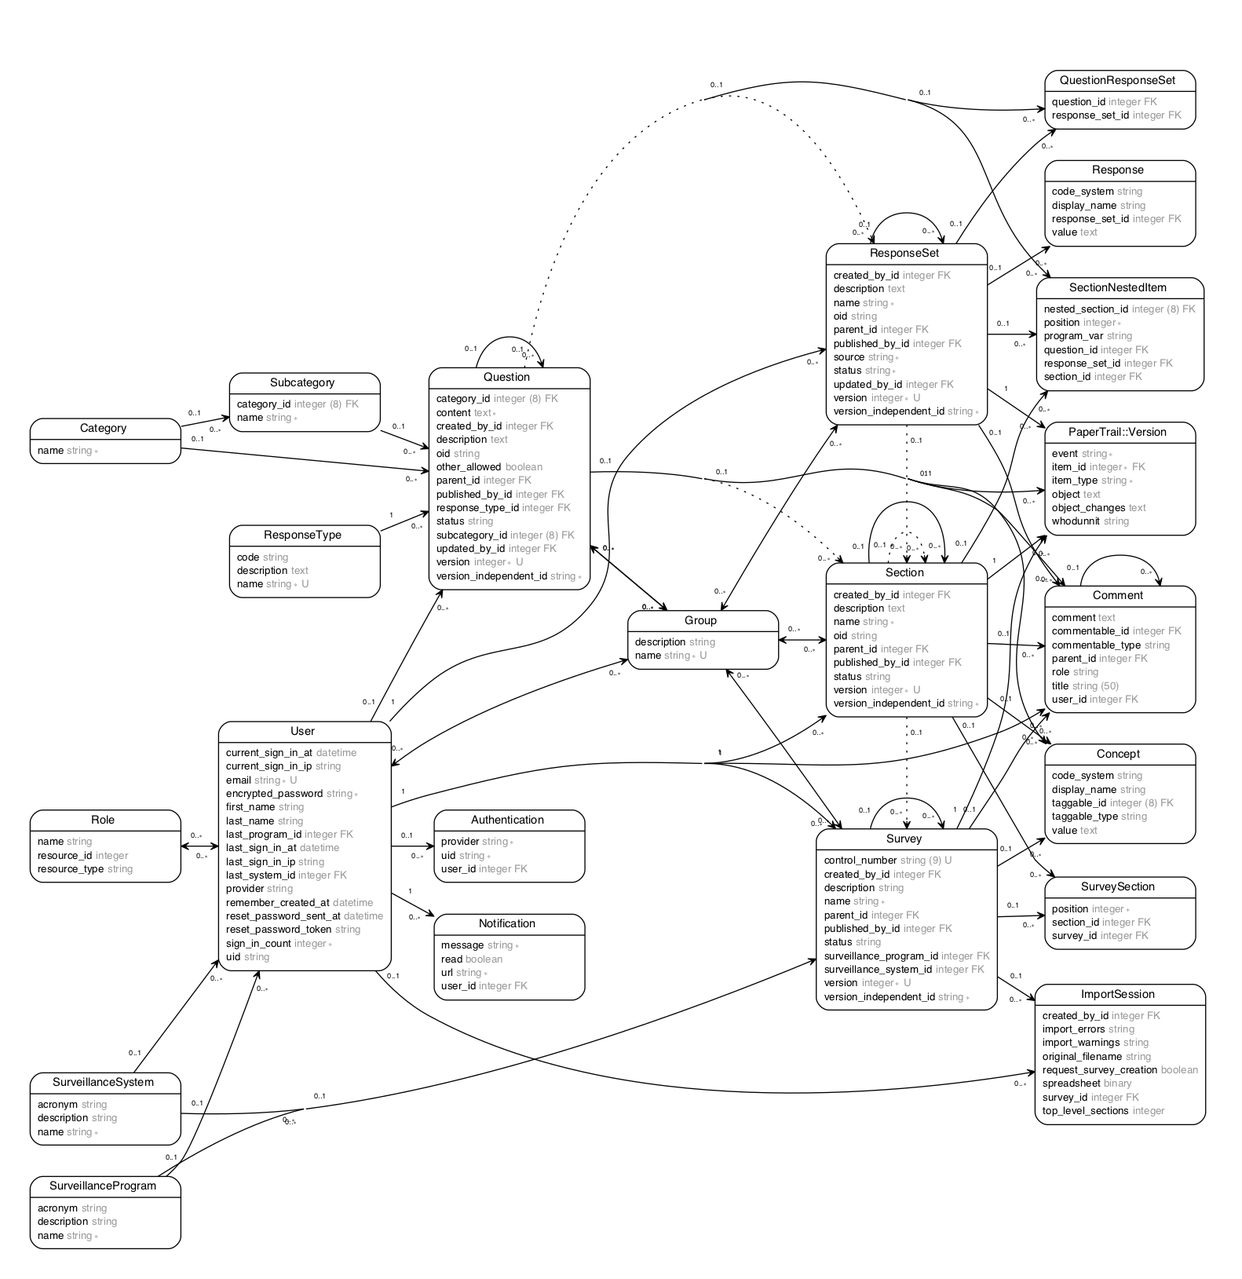
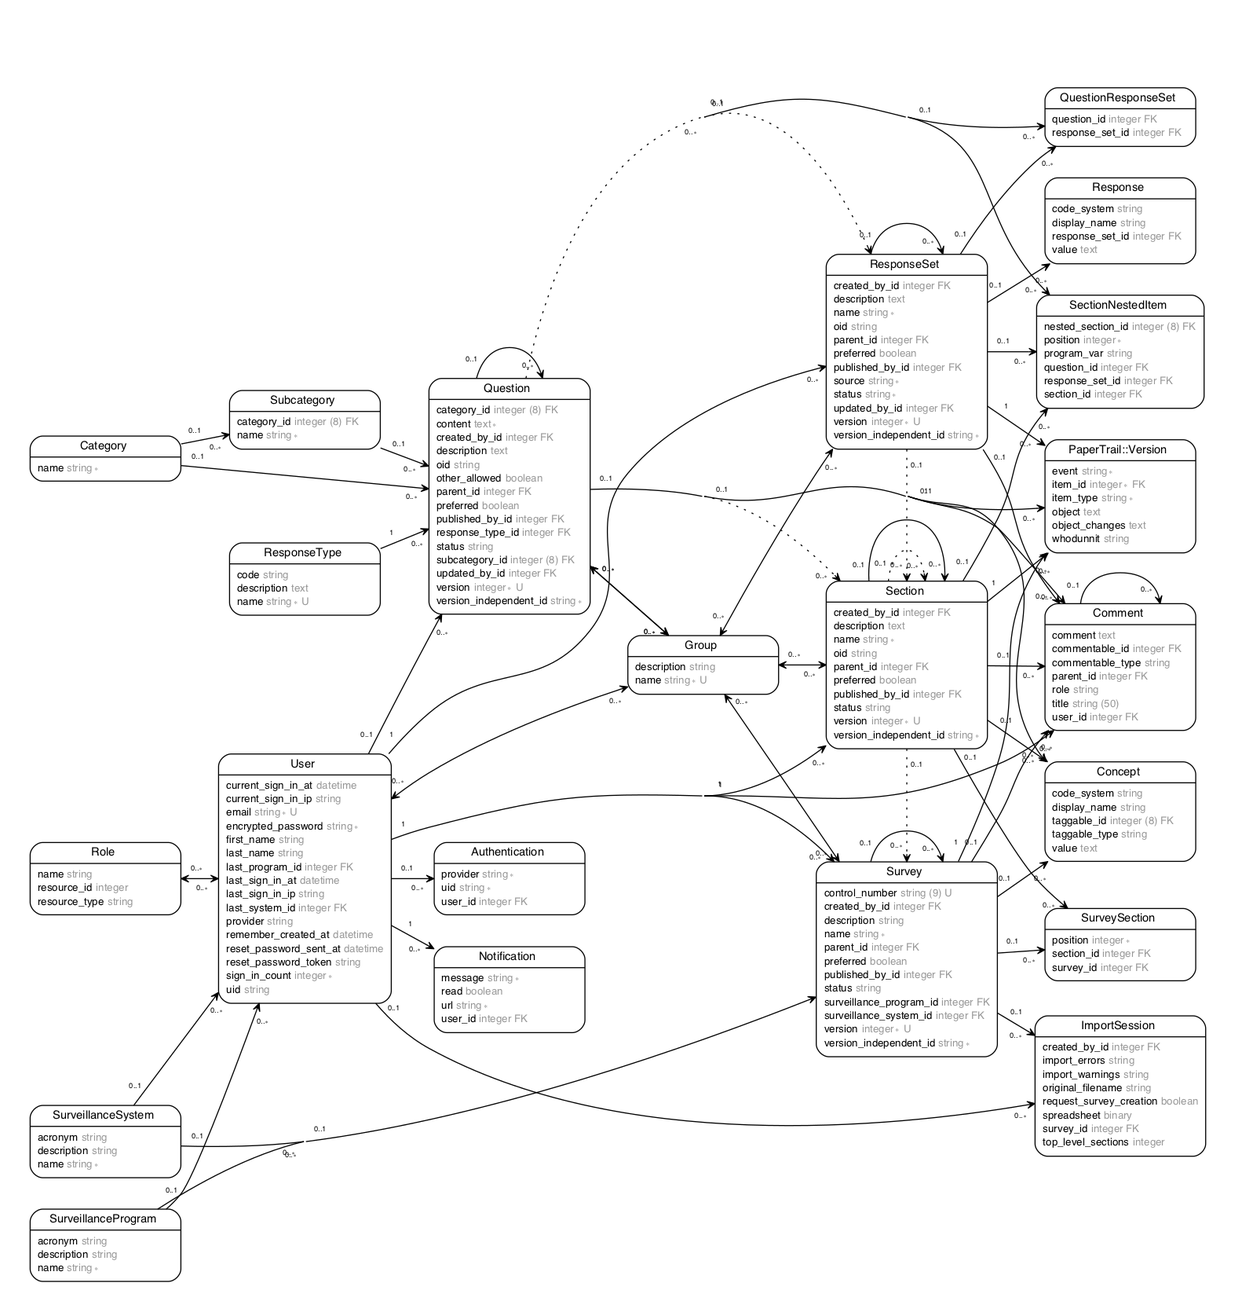
CDC preferred objects, just missing the elasticsearch side

diff --git a/webpack/components/surveys/SurveyShow.js b/webpack/components/surveys/SurveyShow.js
@@ -107,11 +107,29 @@ class SurveyShow extends Component {
             <GroupLookUp item={this.props.survey} addFunc={this.props.addSurveyToGroup} removeFunc={this.props.removeSurveyFromGroup} currentUser={this.props.currentUser} />
           }
           {isPublishable(this.props.survey, this.props.currentUser) &&
-              <a className="btn btn-default" href="#" onClick={(e) => {
-                e.preventDefault();
-                this.props.publishSurvey(this.props.survey.id);
-                return false;
-              }}>Publish</a>
+            <a className="btn btn-default" href="#" onClick={(e) => {
+              e.preventDefault();
+              this.props.publishSurvey(this.props.survey.id);
+              return false;
+            }}>Publish</a>
+          }
+          {this.props.currentUser && this.props.currentUser.admin && !this.props.survey.preferred &&
+            <a className="btn btn-default" href="#" onClick={(e) => {
+              e.preventDefault();
+              this.props.addPreferred(this.props.survey.id, 'Survey', () => {
+                this.props.fetchSurvey(this.props.survey.id);
+              });
+              return false;
+            }}><i className="fa fa-square"></i> CDC Pref<text className="sr-only">Click to add CDC preferred attribute to this content</text></a>
+          }
+          {this.props.currentUser && this.props.currentUser.admin && this.props.survey.preferred &&
+            <a className="btn btn-default" href="#" onClick={(e) => {
+              e.preventDefault();
+              this.props.removePreferred(this.props.survey.id, 'Survey', () => {
+                this.props.fetchSurvey(this.props.survey.id);
+              });
+              return false;
+            }}><i className="fa fa-check-square"></i> CDC Pref<text className="sr-only">Click to remove CDC preferred attribute from this content</text></a>
           }
           {isRevisable(this.props.survey, this.props.currentUser) &&
               <Link className="btn btn-default" to={`surveys/${this.props.survey.id}/revise`}>Revise</Link>
@@ -134,7 +152,7 @@ class SurveyShow extends Component {
           }
         </div>
         <div className="maincontent-details">
-          <h1 className="maincontent-item-name"><strong>Survey Name:</strong> {this.props.survey.name} </h1>
+          <h1 className={`maincontent-item-name ${this.props.survey.preferred ? 'cdc-preferred-note' : ''}`}><strong>Survey Name:</strong> {this.props.survey.name} {this.props.survey.preferred && <text className="sr-only">This content is marked as preferred by the CDC</text>}</h1>
           <p className="maincontent-item-info">Version: {this.props.survey.version} - Author: {this.props.survey.userId} </p>
           {this.surveillanceProgram()}
           {this.surveillanceSystem()}
@@ -261,6 +279,9 @@ SurveyShow.propTypes = {
   currentUser: currentUserProps,
   publishSurvey: PropTypes.func,
   deleteSurvey:  PropTypes.func,
+  addPreferred: PropTypes.func,
+  removePreferred: PropTypes.func,
+  fetchSurvey: PropTypes.func,
   setStats: PropTypes.func,
   addSurveyToGroup: PropTypes.func,
   removeSurveyFromGroup: PropTypes.func,

diff --git a/webpack/components/questions/QuestionShow.js b/webpack/components/questions/QuestionShow.js
@@ -129,6 +129,24 @@ export default class QuestionShow extends Component {
             {isPublishable(question, this.props.currentUser) &&
               <button className="btn btn-primary" onClick={() => this.props.handlePublish(question) }>Publish</button>
             }
+            {this.props.currentUser && this.props.currentUser.admin && !question.preferred &&
+              <a className="btn btn-default" href="#" onClick={(e) => {
+                e.preventDefault();
+                this.props.addPreferred(question.id, 'Question', () => {
+                  this.props.fetchQuestion(question.id);
+                });
+                return false;
+              }}><i className="fa fa-square"></i> CDC Pref<text className="sr-only">Click to add CDC preferred attribute to this content</text></a>
+            }
+            {this.props.currentUser && this.props.currentUser.admin && question.preferred &&
+              <a className="btn btn-default" href="#" onClick={(e) => {
+                e.preventDefault();
+                this.props.removePreferred(question.id, 'Question', () => {
+                  this.props.fetchQuestion(question.id);
+                });
+                return false;
+              }}><i className="fa fa-check-square"></i> CDC Pref<text className="sr-only">Click to remove CDC preferred attribute from this content</text></a>
+            }
             {isEditable(question, this.props.currentUser) &&
               <a className="btn btn-default" href="#" onClick={(e) => {
                 e.preventDefault();
@@ -139,7 +157,7 @@ export default class QuestionShow extends Component {
           </div>
         }
         <div className="maincontent-details">
-          <h1 className="maincontent-item-name"><strong>Question Name:</strong> {question.content} </h1>
+          <h1 className={`maincontent-item-name ${question.preferred ? 'cdc-preferred-note' : ''}`}><strong>Question Name:</strong> {question.content} {question.preferred && <text className="sr-only">This content is marked as preferred by the CDC</text>}</h1>
           <p className="maincontent-item-info">Version: {question.version} - Author: {question.createdBy && question.createdBy.email} </p>
           <ul className="nav nav-tabs" role="tablist">
             <li id="main-content-tab" className="nav-item active" role="tab" onClick={() => this.setState({selectedTab: 'main'})} aria-selected={this.state.selectedTab === 'main'} aria-controls="main">
@@ -295,6 +313,9 @@ QuestionShow.propTypes = {
   deleteQuestion: PropTypes.func,
   addQuestionToGroup: PropTypes.func,
   removeQuestionFromGroup: PropTypes.func,
+  addPreferred: PropTypes.func,
+  removePreferred: PropTypes.func,
+  fetchQuestion: PropTypes.func,
   updateQuestionTags: PropTypes.func,
   setStats: PropTypes.func,
   stats: PropTypes.object,

diff --git a/webpack/components/response_sets/ResponseSetShow.js b/webpack/components/response_sets/ResponseSetShow.js
@@ -99,6 +99,24 @@ export default class ResponseSetShow extends Component {
                 return false;
               }}>Publish</a>
             }
+            {this.props.currentUser && this.props.currentUser.admin && !responseSet.preferred &&
+              <a className="btn btn-default" href="#" onClick={(e) => {
+                e.preventDefault();
+                this.props.addPreferred(responseSet.id, 'ResponseSet', () => {
+                  this.props.fetchResponseSet(responseSet.id);
+                });
+                return false;
+              }}><i className="fa fa-square"></i> CDC Pref<text className="sr-only">Click to add CDC preferred attribute to this content</text></a>
+            }
+            {this.props.currentUser && this.props.currentUser.admin && responseSet.preferred &&
+              <a className="btn btn-default" href="#" onClick={(e) => {
+                e.preventDefault();
+                this.props.removePreferred(responseSet.id, 'ResponseSet', () => {
+                  this.props.fetchResponseSet(responseSet.id);
+                });
+                return false;
+              }}><i className="fa fa-check-square"></i> CDC Pref<text className="sr-only">Click to remove CDC preferred attribute from this content</text></a>
+            }
             {isEditable(responseSet, this.props.currentUser) &&
               <a className="btn btn-default" href="#" onClick={(e) => {
                 e.preventDefault();
@@ -119,7 +137,7 @@ export default class ResponseSetShow extends Component {
           </div>
         }
         <div className="maincontent-details">
-          <h1 className="maincontent-item-name"><strong>Response Set Name:</strong> {responseSet.name} </h1>
+          <h1 className={`maincontent-item-name ${responseSet.preferred ? 'cdc-preferred-note' : ''}`}><strong>Response Set Name:</strong> {responseSet.name} {responseSet.preferred && <text className="sr-only">This content is marked as preferred by the CDC</text>}</h1>
           <p className="maincontent-item-info">Version: {responseSet.version} - Author: {responseSet.createdBy && responseSet.createdBy.email} </p>
           <ul className="nav nav-tabs" role="tablist">
             <li id="main-content-tab" className="nav-item active" role="tab" onClick={() => this.setState({selectedTab: 'main'})} aria-selected={this.state.selectedTab === 'main'} aria-controls="main">
@@ -202,6 +220,9 @@ ResponseSetShow.propTypes = {
   deleteResponseSet:  PropTypes.func,
   addResponseSetToGroup: PropTypes.func,
   removeResponseSetFromGroup: PropTypes.func,
+  addPreferred: PropTypes.func,
+  removePreferred: PropTypes.func,
+  fetchResponseSet: PropTypes.func,
   setStats: PropTypes.func,
   stats: PropTypes.object,
   publishers: publishersProps

diff --git a/webpack/components/sections/SectionShow.js b/webpack/components/sections/SectionShow.js
@@ -179,6 +179,24 @@ class SectionShow extends Component {
                 return false;
               }}>Publish</a>
           }
+          {this.props.currentUser && this.props.currentUser.admin && !section.preferred &&
+            <a className="btn btn-default" href="#" onClick={(e) => {
+              e.preventDefault();
+              this.props.addPreferred(section.id, 'Section', () => {
+                this.props.fetchSection(section.id);
+              });
+              return false;
+            }}><i className="fa fa-square"></i> CDC Pref<text className="sr-only">Click to add CDC preferred attribute to this content</text></a>
+          }
+          {this.props.currentUser && this.props.currentUser.admin && section.preferred &&
+            <a className="btn btn-default" href="#" onClick={(e) => {
+              e.preventDefault();
+              this.props.removePreferred(section.id, 'Section', () => {
+                this.props.fetchSection(section.id);
+              });
+              return false;
+            }}><i className="fa fa-check-square"></i> CDC Pref<text className="sr-only">Click to remove CDC preferred attribute from this content</text></a>
+          }
           {isRevisable(section, this.props.currentUser) &&
             <Link className="btn btn-default" to={`sections/${section.id}/revise`}>Revise</Link>
           }
@@ -197,7 +215,7 @@ class SectionShow extends Component {
           }
         </div>
         <div className="maincontent-details">
-          <h1 className="maincontent-item-name"><strong>Section Name:</strong> {section.name} </h1>
+          <h1 className={`maincontent-item-name ${section.preferred ? 'cdc-preferred-note' : ''}`}><strong>Section Name:</strong> {section.name} {section.preferred && <text className="sr-only">This content is marked as preferred by the CDC</text>}</h1>
           <p className="maincontent-item-info">Version: {section.version} - Author: {section.userId} </p>
           <ul className="nav nav-tabs" role="tablist">
             <li id="main-content-tab" className="nav-item active" role="tab" onClick={() => this.setState({selectedTab: 'main'})} aria-selected={this.state.selectedTab === 'main'} aria-controls="main">
@@ -312,6 +330,9 @@ SectionShow.propTypes = {
   deleteSection:  PropTypes.func.isRequired,
   addSectionToGroup: PropTypes.func,
   removeSectionFromGroup: PropTypes.func,
+  addPreferred: PropTypes.func,
+  removePreferred: PropTypes.func,
+  fetchSection: PropTypes.func,
   updateSectionTags: PropTypes.func,
   setStats: PropTypes.func,
   stats: PropTypes.object,

diff --git a/webpack/containers/questions/QuestionShowContainer.js b/webpack/containers/questions/QuestionShowContainer.js
@@ -6,6 +6,7 @@ import { bindActionCreators } from 'redux';
 import { fetchQuestion, publishQuestion, addQuestionToGroup, removeQuestionFromGroup, deleteQuestion, fetchQuestionUsage, updateQuestionTags } from '../../actions/questions_actions';
 import { setSteps } from '../../actions/tutorial_actions';
 import { setStats } from '../../actions/landing';
+import { addPreferred, removePreferred } from '../../actions/preferred_actions';
 import { questionProps } from "../../prop-types/question_props";
 import QuestionShow  from '../../components/questions/QuestionShow';
 import { questionSchema } from '../../schema';
@@ -85,6 +86,9 @@ class QuestionShowContainer extends Component {
                              deleteQuestion={this.props.deleteQuestion}
                              addQuestionToGroup={this.props.addQuestionToGroup}
                              removeQuestionFromGroup={this.props.removeQuestionFromGroup}
+                             fetchQuestion={this.props.fetchQuestion}
+                             addPreferred={this.props.addPreferred}
+                             removePreferred={this.props.removePreferred}
                              updateQuestionTags={this.props.updateQuestionTags}
                              publishers={this.props.publishers} />
             <div className="col-md-12 showpage-comments-title">Public Comments:</div>
@@ -106,7 +110,8 @@ function mapStateToProps(state, ownProps) {
 }
 
 function mapDispatchToProps(dispatch) {
-  return bindActionCreators({fetchQuestion, deleteQuestion, addQuestionToGroup, removeQuestionFromGroup, fetchQuestionUsage, setSteps, setStats, updateQuestionTags}, dispatch);
+  return bindActionCreators({fetchQuestion, deleteQuestion, addQuestionToGroup, addPreferred, removePreferred,
+    removeQuestionFromGroup, fetchQuestionUsage, setSteps, setStats, updateQuestionTags}, dispatch);
 }
 
 // Avoiding a lint error, but if you supply a question when you create this class, it will be ignored and overwritten!
@@ -124,6 +129,8 @@ QuestionShowContainer.propTypes = {
   deleteQuestion: PropTypes.func,
   addQuestionToGroup: PropTypes.func,
   removeQuestionFromGroup: PropTypes.func,
+  addPreferred: PropTypes.func,
+  removePreferred: PropTypes.func,
   publishers: publishersProps
 };
 

diff --git a/webpack/containers/sections/SectionShowContainer.js b/webpack/containers/sections/SectionShowContainer.js
@@ -7,6 +7,7 @@ import { fetchSection, publishSection, addSectionToGroup, removeSectionFromGroup
 import { setSteps } from '../../actions/tutorial_actions';
 import { setStats } from '../../actions/landing';
 import { hideResultControl, toggleResultControl } from '../../actions/display_style_actions';
+import { addPreferred, removePreferred } from '../../actions/preferred_actions';
 import SectionShow from '../../components/sections/SectionShow';
 import { sectionProps } from '../../prop-types/section_props';
 import { sectionSchema } from '../../schema';
@@ -74,6 +75,9 @@ class SectionShowContainer extends Component {
                       deleteSection={this.props.deleteSection}
                       addSectionToGroup={this.props.addSectionToGroup}
                       removeSectionFromGroup={this.props.removeSectionFromGroup}
+                      addPreferred={this.props.addPreferred}
+                      removePreferred={this.props.removePreferred}
+                      fetchSection={this.props.fetchSection}
                       updateSectionTags={this.props.updateSectionTags}
                       publishers ={this.props.publishers}
                       resultStyle={this.props.resultStyle}
@@ -102,7 +106,8 @@ function mapStateToProps(state, ownProps) {
 }
 
 function mapDispatchToProps(dispatch) {
-  return bindActionCreators({setSteps, setStats, fetchSection, publishSection, addSectionToGroup, removeSectionFromGroup, deleteSection, updateSectionTags, hideResultControl, toggleResultControl}, dispatch);
+  return bindActionCreators({setSteps, setStats, fetchSection, publishSection, addSectionToGroup, addPreferred, removePreferred,
+    removeSectionFromGroup, deleteSection, updateSectionTags, hideResultControl, toggleResultControl}, dispatch);
 }
 
 SectionShowContainer.propTypes = {
@@ -117,6 +122,8 @@ SectionShowContainer.propTypes = {
   deleteSection:  PropTypes.func,
   addSectionToGroup: PropTypes.func,
   removeSectionFromGroup: PropTypes.func,
+  addPreferred: PropTypes.func,
+  removePreferred: PropTypes.func,
   updateSectionTags: PropTypes.func,
   publishSection: PropTypes.func,
   publishers: publishersProps,

diff --git a/webpack/_routes.js b/webpack/_routes.js
@@ -471,6 +471,9 @@ Based on Rails routes of Vocabulary::Application
 // add_to_group_survey => /surveys/:id/add_to_group(.:format)
   // function(id, options)
   add_to_group_survey_path: Utils.route([["id",true],["format",false]], {}, [2,[7,"/",false],[2,[6,"surveys",false],[2,[7,"/",false],[2,[3,"id",false],[2,[7,"/",false],[2,[6,"add_to_group",false],[1,[2,[8,".",false],[3,"format",false]],false]]]]]]]),
+// admin_add_preferred_label => /admin/preferred_content/add_preferred_label(.:format)
+  // function(options)
+  admin_add_preferred_label_path: Utils.route([["format",false]], {}, [2,[7,"/",false],[2,[6,"admin",false],[2,[7,"/",false],[2,[6,"preferred_content",false],[2,[7,"/",false],[2,[6,"add_preferred_label",false],[1,[2,[8,".",false],[3,"format",false]],false]]]]]]]),
 // admin_add_user => /admin/groups/add_user(.:format)
   // function(options)
   admin_add_user_path: Utils.route([["format",false]], {}, [2,[7,"/",false],[2,[6,"admin",false],[2,[7,"/",false],[2,[6,"groups",false],[2,[7,"/",false],[2,[6,"add_user",false],[1,[2,[8,".",false],[3,"format",false]],false]]]]]]]),
@@ -489,6 +492,9 @@ Based on Rails routes of Vocabulary::Application
 // admin_groups => /admin/groups(.:format)
   // function(options)
   admin_groups_path: Utils.route([["format",false]], {}, [2,[7,"/",false],[2,[6,"admin",false],[2,[7,"/",false],[2,[6,"groups",false],[1,[2,[8,".",false],[3,"format",false]],false]]]]]),
+// admin_remove_preferred_label => /admin/preferred_content/remove_preferred_label(.:format)
+  // function(options)
+  admin_remove_preferred_label_path: Utils.route([["format",false]], {}, [2,[7,"/",false],[2,[6,"admin",false],[2,[7,"/",false],[2,[6,"preferred_content",false],[2,[7,"/",false],[2,[6,"remove_preferred_label",false],[1,[2,[8,".",false],[3,"format",false]],false]]]]]]]),
 // admin_remove_user => /admin/groups/remove_user(.:format)
   // function(options)
   admin_remove_user_path: Utils.route([["format",false]], {}, [2,[7,"/",false],[2,[6,"admin",false],[2,[7,"/",false],[2,[6,"groups",false],[2,[7,"/",false],[2,[6,"remove_user",false],[1,[2,[8,".",false],[3,"format",false]],false]]]]]]]),

diff --git a/webpack/containers/response_sets/ResponseSetShowContainer.js b/webpack/containers/response_sets/ResponseSetShowContainer.js
@@ -6,6 +6,7 @@ import { bindActionCreators } from 'redux';
 import { fetchResponseSet, publishResponseSet, addResponseSetToGroup, removeResponseSetFromGroup, deleteResponseSet, fetchResponseSetUsage } from '../../actions/response_set_actions';
 import { setSteps } from '../../actions/tutorial_actions';
 import { setStats } from '../../actions/landing';
+import { addPreferred, removePreferred } from '../../actions/preferred_actions';
 import ResponseSetShow from '../../components/response_sets/ResponseSetShow';
 import { responseSetProps } from '../../prop-types/response_set_props';
 import { responseSetSchema } from '../../schema';
@@ -91,7 +92,8 @@ function mapStateToProps(state, ownProps) {
 }
 
 function mapDispatchToProps(dispatch) {
-  return bindActionCreators({setSteps, setStats, fetchResponseSet, publishResponseSet, addResponseSetToGroup, removeResponseSetFromGroup, deleteResponseSet, fetchResponseSetUsage}, dispatch);
+  return bindActionCreators({setSteps, setStats, fetchResponseSet, publishResponseSet, addPreferred, removePreferred,
+    addResponseSetToGroup, removeResponseSetFromGroup, deleteResponseSet, fetchResponseSetUsage}, dispatch);
 }
 
 ResponseSetShowContainer.propTypes = {
@@ -103,6 +105,8 @@ ResponseSetShowContainer.propTypes = {
   deleteResponseSet:  PropTypes.func,
   addResponseSetToGroup: PropTypes.func,
   removeResponseSetFromGroup: PropTypes.func,
+  addPreferred: PropTypes.func,
+  removePreferred: PropTypes.func,
   setSteps: PropTypes.func,
   setStats: PropTypes.func,
   stats: PropTypes.object,

diff --git a/webpack/containers/surveys/SurveyShowContainer.js b/webpack/containers/surveys/SurveyShowContainer.js
@@ -6,6 +6,7 @@ import { bindActionCreators } from 'redux';
 import { fetchSurvey, publishSurvey, addSurveyToGroup, removeSurveyFromGroup, deleteSurvey, updateSurveyTags } from '../../actions/survey_actions';
 import { setSteps } from '../../actions/tutorial_actions';
 import { setStats } from '../../actions/landing';
+import { addPreferred, removePreferred } from '../../actions/preferred_actions';
 import SurveyShow from '../../components/surveys/SurveyShow';
 import { surveyProps } from '../../prop-types/survey_props';
 import { surveySchema } from '../../schema';
@@ -111,7 +112,8 @@ function mapStateToProps(state, ownProps) {
 }
 
 function mapDispatchToProps(dispatch) {
-  return bindActionCreators({setSteps, setStats, publishSurvey, addSurveyToGroup, removeSurveyFromGroup, fetchSurvey, deleteSurvey, updateSurveyTags}, dispatch);
+  return bindActionCreators({setSteps, setStats, publishSurvey, addSurveyToGroup, addPreferred, removePreferred,
+    removeSurveyFromGroup, fetchSurvey, deleteSurvey, updateSurveyTags}, dispatch);
 }
 
 SurveyShowContainer.propTypes = {
@@ -122,6 +124,8 @@ SurveyShowContainer.propTypes = {
   publishSurvey: PropTypes.func,
   addSurveyToGroup: PropTypes.func,
   removeSurveyFromGroup: PropTypes.func,
+  addPreferred: PropTypes.func,
+  removePreferred: PropTypes.func,
   updateSurveyTags: PropTypes.func,
   deleteSurvey: PropTypes.func,
   setSteps: PropTypes.func,

diff --git a/webpack/actions/preferred_actions.js b/webpack/actions/preferred_actions.js
@@ -1,0 +1,33 @@
+import axios from 'axios';
+import routes from '../routes';
+import { getCSRFToken } from './index';
+import {
+  ADD_PREFERRED,
+  REMOVE_PREFERRED
+} from './types';
+
+export function addPreferred(id, type, callback=null) {
+  const authenticityToken = getCSRFToken();
+  const putPromise = axios.put(routes.adminAddPreferredLabelPath(),
+              {id, type, authenticityToken}, {headers: {'X-Key-Inflection': 'camel', 'Accept': 'application/json'}});
+  if (callback) {
+    putPromise.then(callback);
+  }
+  return {
+    type: ADD_PREFERRED,
+    payload: putPromise
+  };
+}
+
+export function removePreferred(id, type, callback=null) {
+  const authenticityToken = getCSRFToken();
+  const putPromise = axios.put(routes.adminRemovePreferredLabelPath(),
+              {id, type, authenticityToken}, {headers: {'X-Key-Inflection': 'camel', 'Accept': 'application/json'}});
+  if (callback) {
+    putPromise.then(callback);
+  }
+  return {
+    type: REMOVE_PREFERRED,
+    payload: putPromise
+  };
+}

diff --git a/webpack/components/shared_show/PublisherLookUp.js b/webpack/components/shared_show/PublisherLookUp.js
@@ -8,7 +8,7 @@ class PublisherLookUp extends Component {
   render() {
     return (<div className="btn-group">
               <button className="btn btn-default dropdown-toggle" type="button" data-toggle="dropdown" aria-haspopup="true" aria-expanded="false">
-                <span className="fa fa-envelope-o"></span> Send to publisher <span className="caret"></span>
+                <span className="fa fa-envelope-o"></span> Send <span className="caret"></span>
               </button>
               <ul className="dropdown-menu">
                 <li key="header" className="dropdown-header">Publishers</li>

diff --git a/webpack/actions/types.js b/webpack/actions/types.js
@@ -28,6 +28,12 @@ export const FETCH_STATS = 'FETCH_STATS';
 export const FETCH_STATS_FULFILLED = 'FETCH_STATS_FULFILLED';
 export const SET_STATS = 'SET_STATS';
 
+// Preferred Content
+export const ADD_PREFERRED = 'ADD_PREFERRED';
+export const ADD_PREFERRED_FULFILLED = 'ADD_PREFERRED_FULFILLED';
+export const REMOVE_PREFERRED = 'REMOVE_PREFERRED';
+export const REMOVE_PREFERRED_FULFILLED = 'REMOVE_PREFERRED_FULFILLED';
+
 // Groups
 export const REMOVE_QUESTION_FROM_GROUP = 'REMOVE_QUESTION_FROM_GROUP';
 export const REMOVE_QUESTION_FROM_GROUP_FULFILLED = 'REMOVE_QUESTION_FROM_GROUP_FULFILLED';
